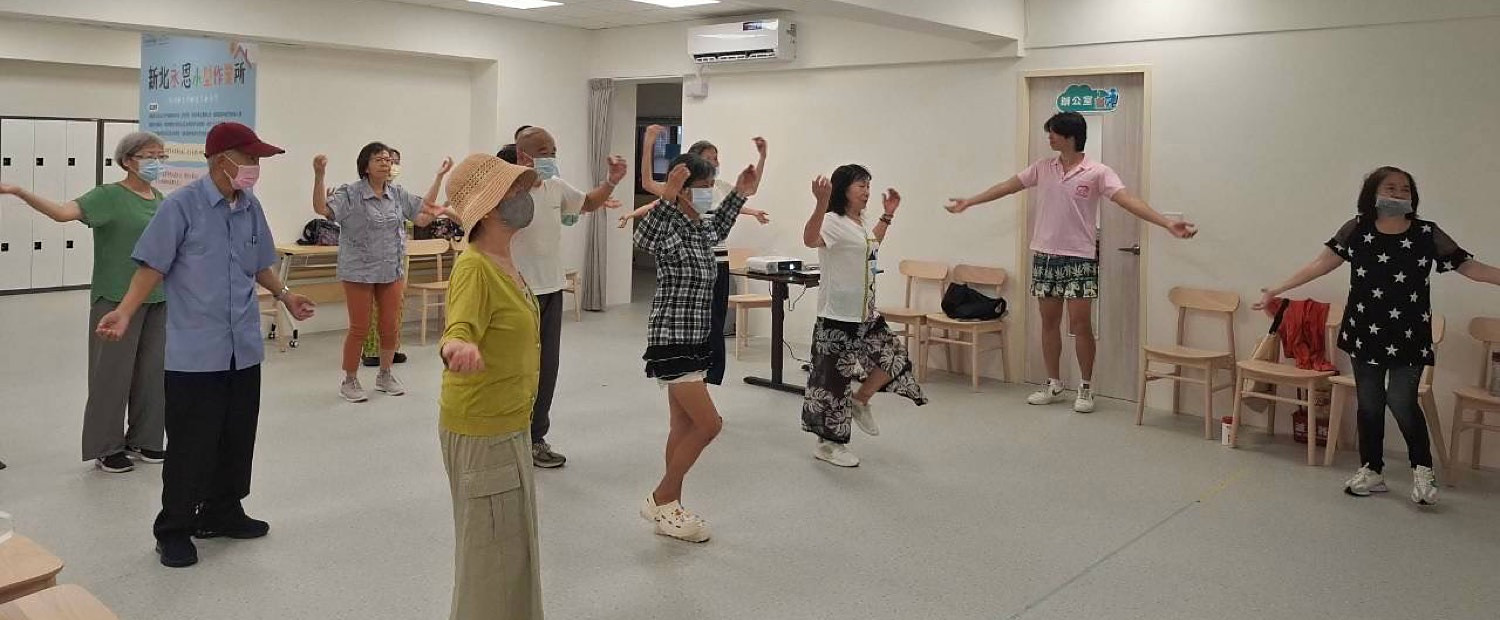
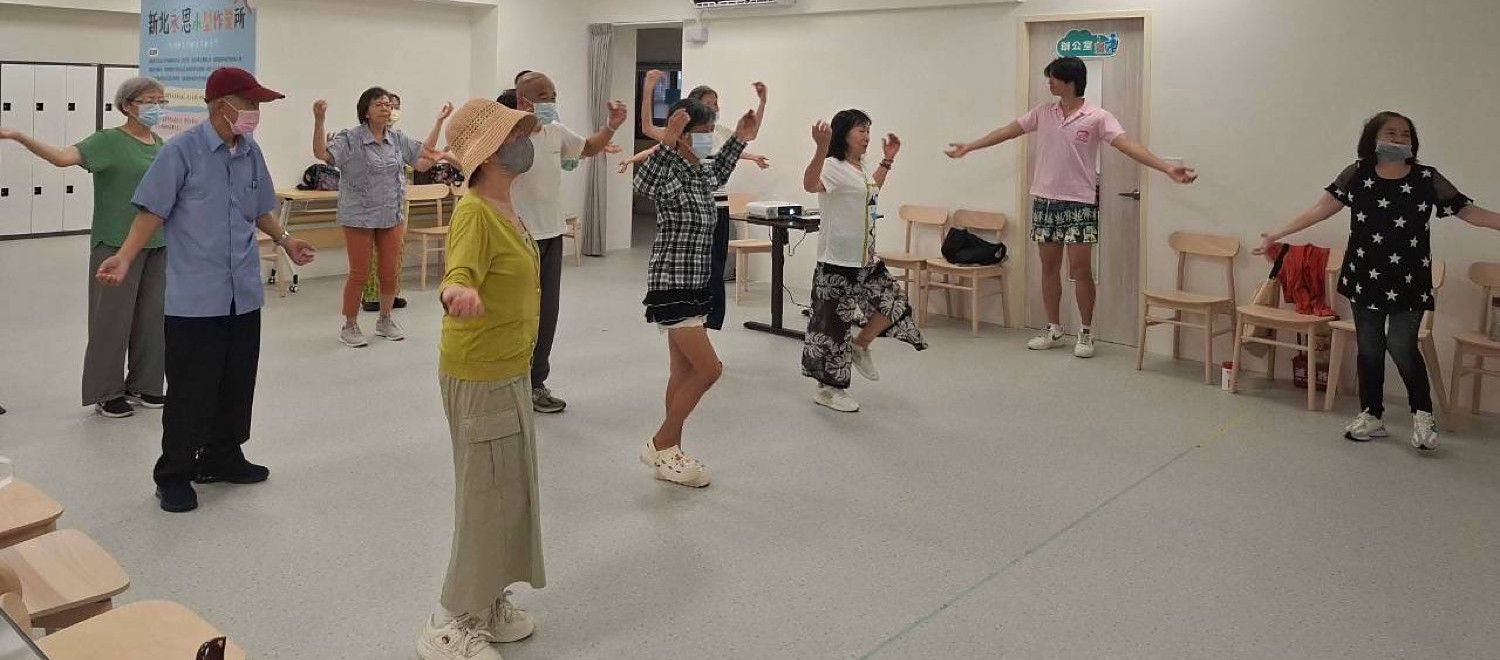
青年培訓主視覺改用完整構圖高解析版本，單一圖檔適用各裝置

diff --git a/course.html b/course.html
@@ -26,7 +26,7 @@
 <link rel="preconnect" href="https://fonts.googleapis.com">
 <link rel="preconnect" href="https://fonts.gstatic.com" crossorigin>
 <link rel="stylesheet" href="https://fonts.googleapis.com/css2?family=Noto+Sans+TC:wght@400;500;700&family=Noto+Serif+TC:wght@500;600;700&display=swap">
-<link rel="stylesheet" href="assets/css/site.css?v=96">
+<link rel="stylesheet" href="assets/css/site.css?v=99">
 <script>document.documentElement.className += " js";</script>
 </head>
 <body>
@@ -108,11 +108,10 @@
 <section class="sec sec--navy hero--type" aria-label="青年健身教練培訓" data-en-aria="Youth Fitness Coach Training">
   <div class="hero--type__media">
     <picture>
-      <source media="(min-width:810px)" srcset="assets/img/course-hero-1786.jpg?v=77">
-      <img src="assets/img/course-hero-mobile-707.jpg?v=77"
+      <img src="assets/img/course-hero-mobile-707.jpg?v=99"
            alt="長照據點的教室裡，一群長輩張開雙手跟著做動作，穿粉紅色上衣的青年站在右側帶著大家一起動"
            data-en-alt="In a care-station activity room, a group of elders follow along with their arms outstretched while the young coach in pink leads from the right"
-           width="1200" height="730" fetchpriority="high" decoding="async">
+           width="1240" height="1120" fetchpriority="high" decoding="async">
     </picture>
   </div>
   <div class="hero--type__scrim" aria-hidden="true"></div>
@@ -391,6 +390,23 @@
         <p class="err" id="ea-school" role="alert"></p>
       </div>
 
+      <!-- Sherry spotted this: the form never asked which cohort. It is a hard
+           gate — a family that can make neither morning does not need to write
+           the essay — so it sits directly after the school field, before any of
+           the effort. 兩梯都可以 exists because it makes the rota easier to
+           solve, and a student who offers it should be able to say so. -->
+      <div class="field">
+        <label for="a-batch"><span data-en="Which cohort">想報名的梯次</span> <span class="req" aria-hidden="true" data-en="required">必填</span></label>
+        <select id="a-batch" name="batch" required aria-describedby="ea-batch ha-batch">
+          <option value="" data-en="Please choose">請選擇</option>
+          <option data-en="Sat 17 Oct, 8:00–12:00">10/17（六）8:00–12:00</option>
+          <option data-en="Sat 31 Oct, 8:00–12:00">10/31（六）8:00–12:00</option>
+          <option data-en="Either works for me">兩梯都可以</option>
+        </select>
+        <p class="hint" id="ha-batch" data-en="This is the 4-hour classroom morning. Choosing 「either」 makes you easier to place.">這是 4 小時學科的那個上午。選「兩梯都可以」比較好安排。</p>
+        <p class="err" id="ea-batch" role="alert"></p>
+      </div>
+
       <div class="field">
         <label for="a-contact"><span data-en="Student's email">學生 Email</span> <span class="opt" data-en="optional">選填</span></label>
         <input id="a-contact" name="student_email" type="email" autocomplete="email"
@@ -517,9 +533,15 @@
       <div class="foot__cell foot__cell--wide" data-reveal style="--d:160ms">
         <span class="meta" data-en="Supported by">支持單位</span>
         <div class="foot__logos">
-          <img src="assets/img/association-logo-mono.png?v=41" style="--h:44px" alt="社團法人中華長照協會 China Long-Term Care Association" data-en-alt="China Long-Term Care Association" width="832" height="130" loading="lazy" decoding="async">
-          <img src="assets/img/partner-feelfitness-mono.png?v=88" style="--h:56px" alt="賦優適能 Feel Fitness" data-en-alt="Feel Fitness" width="900" height="278" loading="lazy" decoding="async">
-          <img src="assets/img/partner-icare-mono.png?v=90" style="--h:70px" alt="iCare Cafe 長照咖啡館" data-en-alt="iCare Cafe" width="760" height="289" loading="lazy" decoding="async">
+          <a href="https://www.clc.org.tw/index.php" target="_blank" rel="noopener">
+            <img src="assets/img/association-logo-mono.png?v=41" style="--h:44px" alt="社團法人中華長照協會 China Long-Term Care Association" data-en-alt="China Long-Term Care Association" width="832" height="130" loading="lazy" decoding="async">
+          </a>
+          <a href="https://feelfitness.tw/" target="_blank" rel="noopener">
+            <img src="assets/img/partner-feelfitness-mono.png?v=88" style="--h:56px" alt="賦優適能 Feel Fitness" data-en-alt="Feel Fitness" width="900" height="278" loading="lazy" decoding="async">
+          </a>
+          <a href="https://www.facebook.com/iCareCafe/?locale=zh_TW" target="_blank" rel="noopener">
+            <img src="assets/img/partner-icare-mono.png?v=90" style="--h:70px" alt="iCare Cafe 長照咖啡館" data-en-alt="iCare Cafe" width="760" height="289" loading="lazy" decoding="async">
+          </a>
         </div>
         <p data-en="The volunteer certificate is issued by the China Long-Term Care Association.">志工培訓證明由社團法人中華長照協會核發。</p>
       </div>
@@ -535,6 +557,6 @@
   </div>
 </footer>
 
-<script src="assets/js/site.js?v=96" defer></script>
+<script src="assets/js/site.js?v=99" defer></script>
 </body>
 </html>

diff --git a/assets/js/site.js b/assets/js/site.js
@@ -955,7 +955,7 @@
 
     var HOOK = 'https://hook.us2.make.com/n4mpjgv5wvijbfcgd2bj3efpc38n1p1s';
 
-    var name_ = $('#a-name'), age = $('#a-age'), school = $('#a-school'),
+    var name_ = $('#a-name'), age = $('#a-age'), school = $('#a-school'), batch = $('#a-batch'),
         sMail = $('#a-contact'), parent_ = $('#a-parent'),
         pMail = $('#a-pmail'), phone = $('#a-phone'),
         why = $('#a-why'), exp = $('#a-exp'), work = $('#a-work'), trap = $('#a-trap'),
@@ -983,6 +983,8 @@
         ok: function (v) { return v.trim() === '' || MAIL(v); } },
       { el: pMail,  err: '#ea-pmail',  msg: '這個 Email 看起來不太對，再確認一下。', en: 'That email does not look right — worth a second look.',
         ok: function (v) { return v.trim() === '' || MAIL(v); } },
+      { el: batch,  err: '#ea-batch',  msg: '請選擇想報名的梯次。', en: 'Please choose a cohort.',
+        ok: function (v) { return v.trim() !== ''; } },
       { el: work,   err: '#ea-work',   msg: '這個連結看起來不太對，要以 http:// 或 https:// 開頭。', en: 'That link does not look right — it should start with http:// or https://.',
         ok: function (v) { return v.trim() === '' || /^https?:\/\/\S+$/i.test(v.trim()); } },
       { el: phone,  err: '#ea-phone',  msg: '請填寫家長／監護人聯絡電話。', en: 'Please enter a parent or guardian phone number.',
@@ -1049,11 +1051,11 @@
       }
 
       var L = isEN()
-        ? ['Student name','Age','School and year','Student email',
+        ? ['Student name','Age','School and year','Cohort','Student email',
            'Parent name','Parent email','Parent phone','Why they want to join','Sport / volunteering experience','CV / portfolio link']
-        : ['學生姓名','年齡','學校年級','學生 Email',
+        : ['學生姓名','年齡','學校年級','報名梯次','學生 Email',
            '家長姓名','家長 Email','家長電話','為什麼想參加','運動或志工經驗','履歷／學習歷程連結'];
-      var V = [name_.value.trim(), age.value.trim(), school.value.trim(), sMail.value.trim(),
+      var V = [name_.value.trim(), age.value.trim(), school.value.trim(), batch.value.trim(), sMail.value.trim(),
                parent_.value.trim(), pMail.value.trim(), phone.value.trim(), why.value.trim(), exp.value.trim(),
                work.value.trim()];
       var fields = {};
@@ -1067,6 +1069,7 @@
         student: name_.value.trim(),
         age: age.value.trim(),
         school: school.value.trim(),
+        batch: batch.value.trim(),
         student_email: sMail.value.trim(),
         parent: parent_.value.trim(),
         parent_email: pMail.value.trim(),

diff --git a/index.html b/index.html
@@ -29,7 +29,7 @@
 <link rel="preconnect" href="https://fonts.gstatic.com" crossorigin>
 <link rel="stylesheet" href="https://fonts.googleapis.com/css2?family=Noto+Sans+TC:wght@400;500;700&family=Noto+Serif+TC:wght@500;600;700&display=swap">
 <!-- bump ?v= whenever you edit the css/js so browsers don't serve a stale copy -->
-<link rel="stylesheet" href="assets/css/site.css?v=96">
+<link rel="stylesheet" href="assets/css/site.css?v=99">
 <script>document.documentElement.className += " js";</script>
 </head>
 <body>
@@ -792,9 +792,15 @@
       <div class="foot__cell foot__cell--wide" data-reveal style="--d:160ms">
         <span class="meta" data-en="Supported by">支持單位</span>
         <div class="foot__logos">
-          <img src="assets/img/association-logo-mono.png?v=41" style="--h:44px" alt="社團法人中華長照協會 China Long-Term Care Association" data-en-alt="China Long-Term Care Association" width="832" height="130" loading="lazy" decoding="async">
-          <img src="assets/img/partner-feelfitness-mono.png?v=88" style="--h:56px" alt="賦優適能 Feel Fitness" data-en-alt="Feel Fitness" width="900" height="278" loading="lazy" decoding="async">
-          <img src="assets/img/partner-icare-mono.png?v=90" style="--h:70px" alt="iCare Cafe 長照咖啡館" data-en-alt="iCare Cafe" width="760" height="289" loading="lazy" decoding="async">
+          <a href="https://www.clc.org.tw/index.php" target="_blank" rel="noopener">
+            <img src="assets/img/association-logo-mono.png?v=41" style="--h:44px" alt="社團法人中華長照協會 China Long-Term Care Association" data-en-alt="China Long-Term Care Association" width="832" height="130" loading="lazy" decoding="async">
+          </a>
+          <a href="https://feelfitness.tw/" target="_blank" rel="noopener">
+            <img src="assets/img/partner-feelfitness-mono.png?v=88" style="--h:56px" alt="賦優適能 Feel Fitness" data-en-alt="Feel Fitness" width="900" height="278" loading="lazy" decoding="async">
+          </a>
+          <a href="https://www.facebook.com/iCareCafe/?locale=zh_TW" target="_blank" rel="noopener">
+            <img src="assets/img/partner-icare-mono.png?v=90" style="--h:70px" alt="iCare Cafe 長照咖啡館" data-en-alt="iCare Cafe" width="760" height="289" loading="lazy" decoding="async">
+          </a>
         </div>
       </div>
     </div>
@@ -828,6 +834,6 @@
   </button>
 </div>
 
-<script src="assets/js/site.js?v=96" defer></script>
+<script src="assets/js/site.js?v=99" defer></script>
 </body>
 </html>

diff --git a/assets/css/site.css b/assets/css/site.css
@@ -1215,6 +1215,12 @@ svg{fill:none;stroke:currentColor;stroke-width:1.6;stroke-linecap:round;stroke-l
   gap:var(--s5) var(--s6);margin-block:var(--s4);
 }
 .foot__logos img{width:auto;height:var(--h,32px);max-width:100%;opacity:.94}
+/* the marks link out to each organisation; the lift on hover is the only
+   affordance they need, since a logo already reads as clickable */
+.foot__logos a{display:inline-flex;transition:opacity .3s var(--ease)}
+.foot__logos a img{transition:opacity .3s var(--ease)}
+@media (hover:hover){ .foot__logos a:hover img{opacity:1} }
+.foot__logos a:focus-visible{outline-offset:6px}
 .foot__mail{
   font-family:var(--ff-latin);font-size:clamp(1.0625rem,4.6vw,1.5rem);
   line-height:1.4;word-break:break-all;padding-block:10px;
@@ -1504,7 +1510,7 @@ svg{fill:none;stroke:currentColor;stroke-width:1.6;stroke-linecap:round;stroke-l
 }
 .hero--type__media picture{display:block}
 .hero--type__media img{
-  width:100%;height:auto;aspect-ratio:1200/730;object-fit:cover;
+  width:100%;height:auto;aspect-ratio:1240/1120;object-fit:cover;
   /* no Ken Burns on the plate: a drifting zoom on a static-height block
      reveals its own edges */
   transform:none;animation:none;
@@ -1527,14 +1533,14 @@ svg{fill:none;stroke:currentColor;stroke-width:1.6;stroke-linecap:round;stroke-l
      so a taller box would only add floor back under them. */
   main>.sec.hero--type{position:sticky;top:0;z-index:0}
   .hero--type{
-    min-height:70svh;display:flex;flex-direction:row;align-items:center;
+    min-height:86svh;display:flex;flex-direction:row;align-items:center;
     padding-block:var(--s9);
   }
   .hero--type__media{position:absolute;inset:0;z-index:-2;padding-top:0}
   .hero--type__media::after{display:none}
   .hero--type__media picture,.hero--type__media img{width:100%;height:100%}
   .hero--type__media img{
-    aspect-ratio:auto;object-fit:cover;object-position:56% 50%;
+    aspect-ratio:auto;object-fit:cover;object-position:50% 62%;
     transform:scale(1.02);
     animation:kb 34s ease-in-out infinite alternate;
   }
